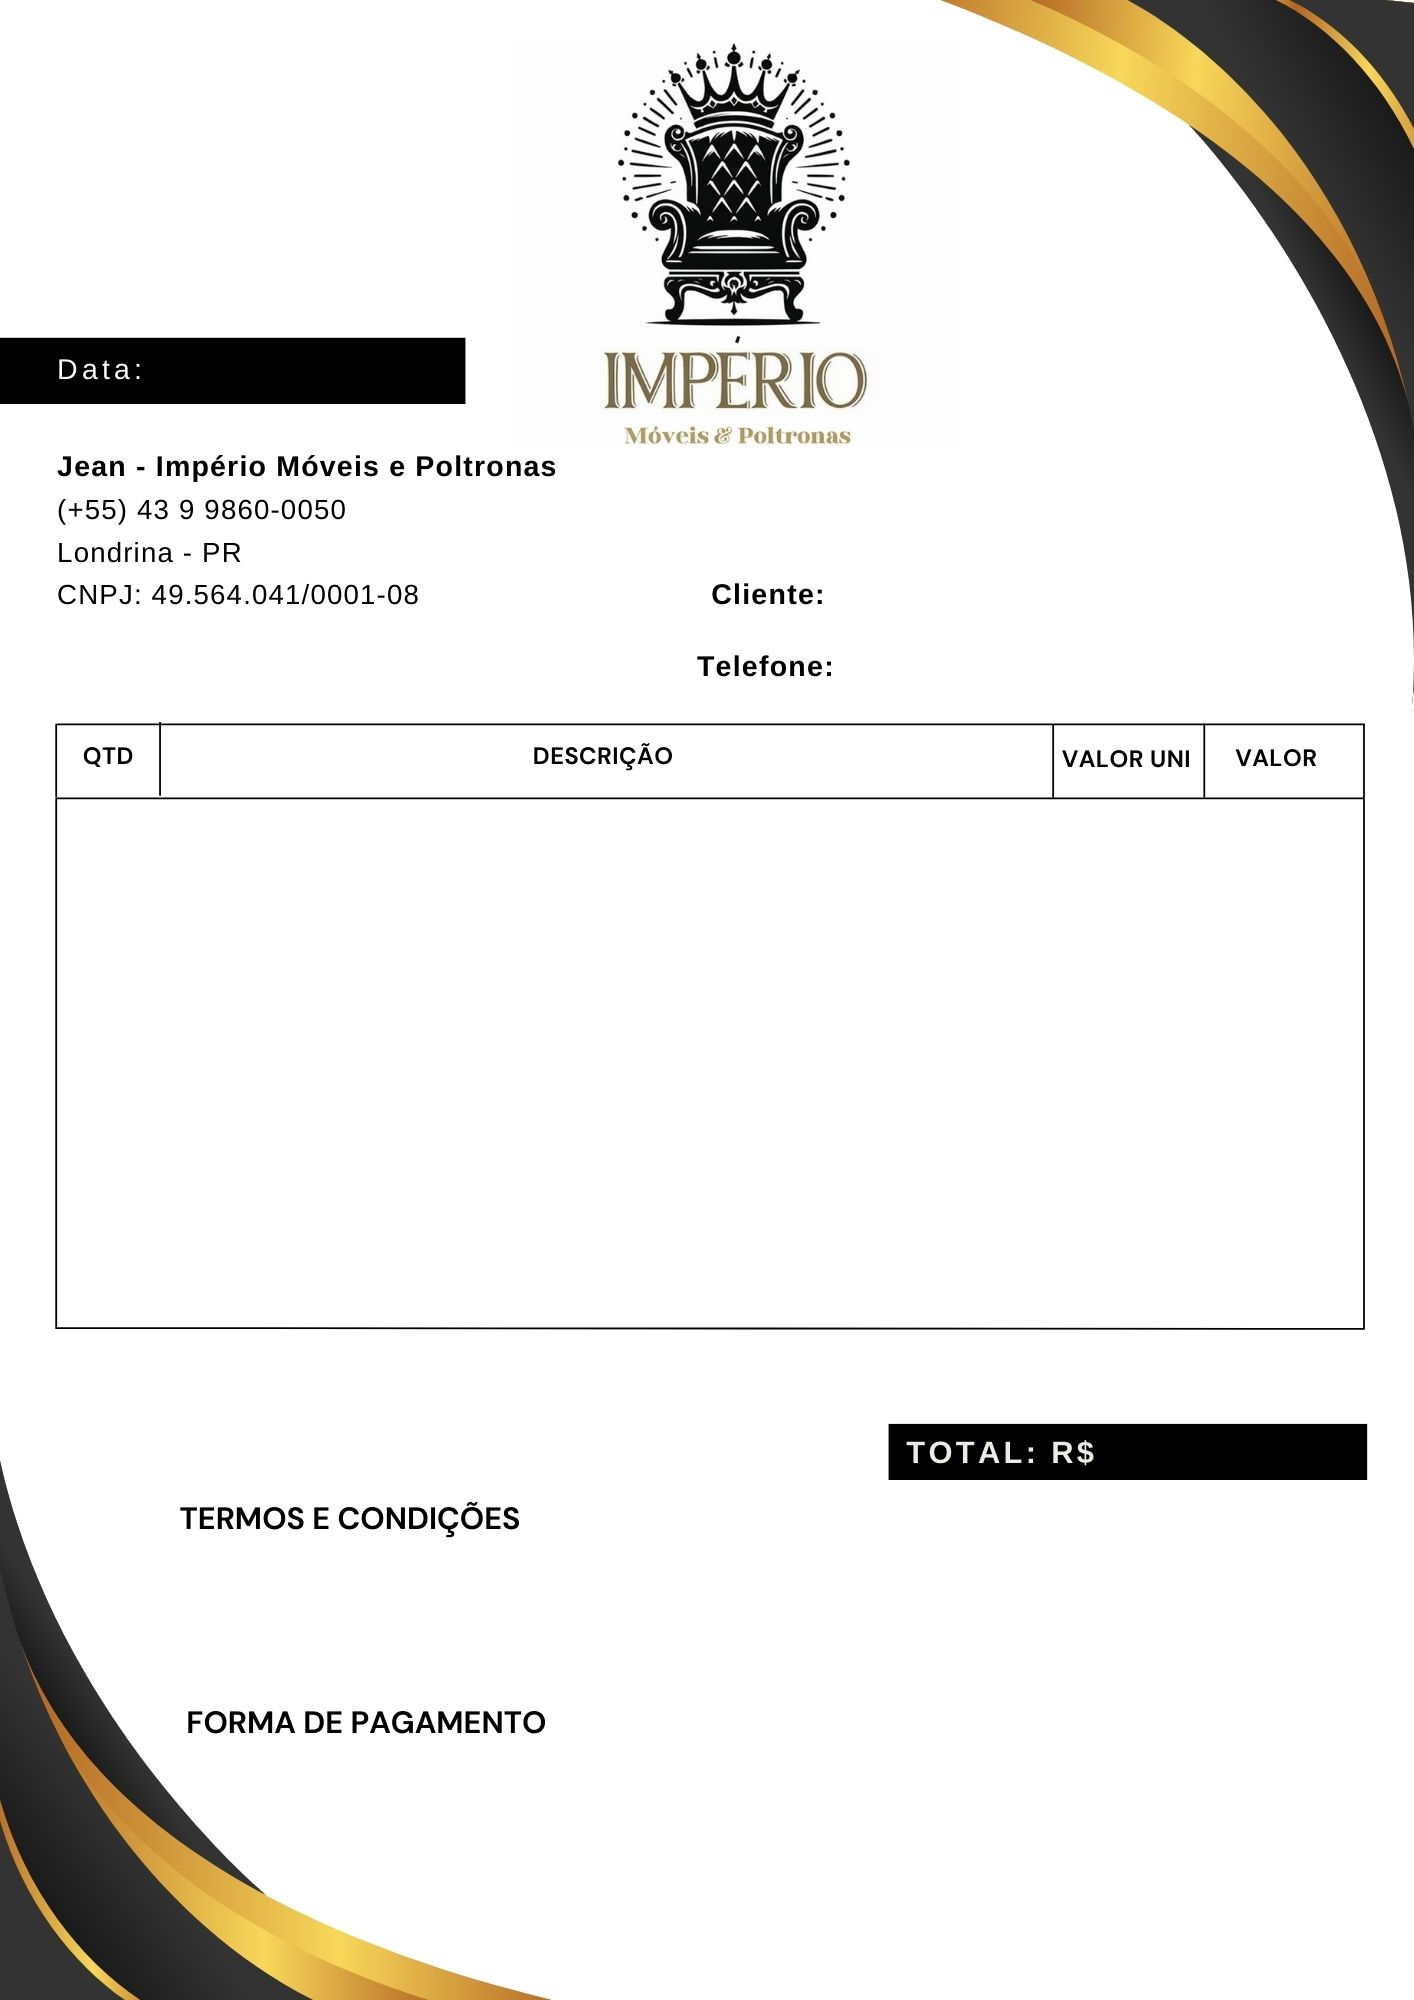
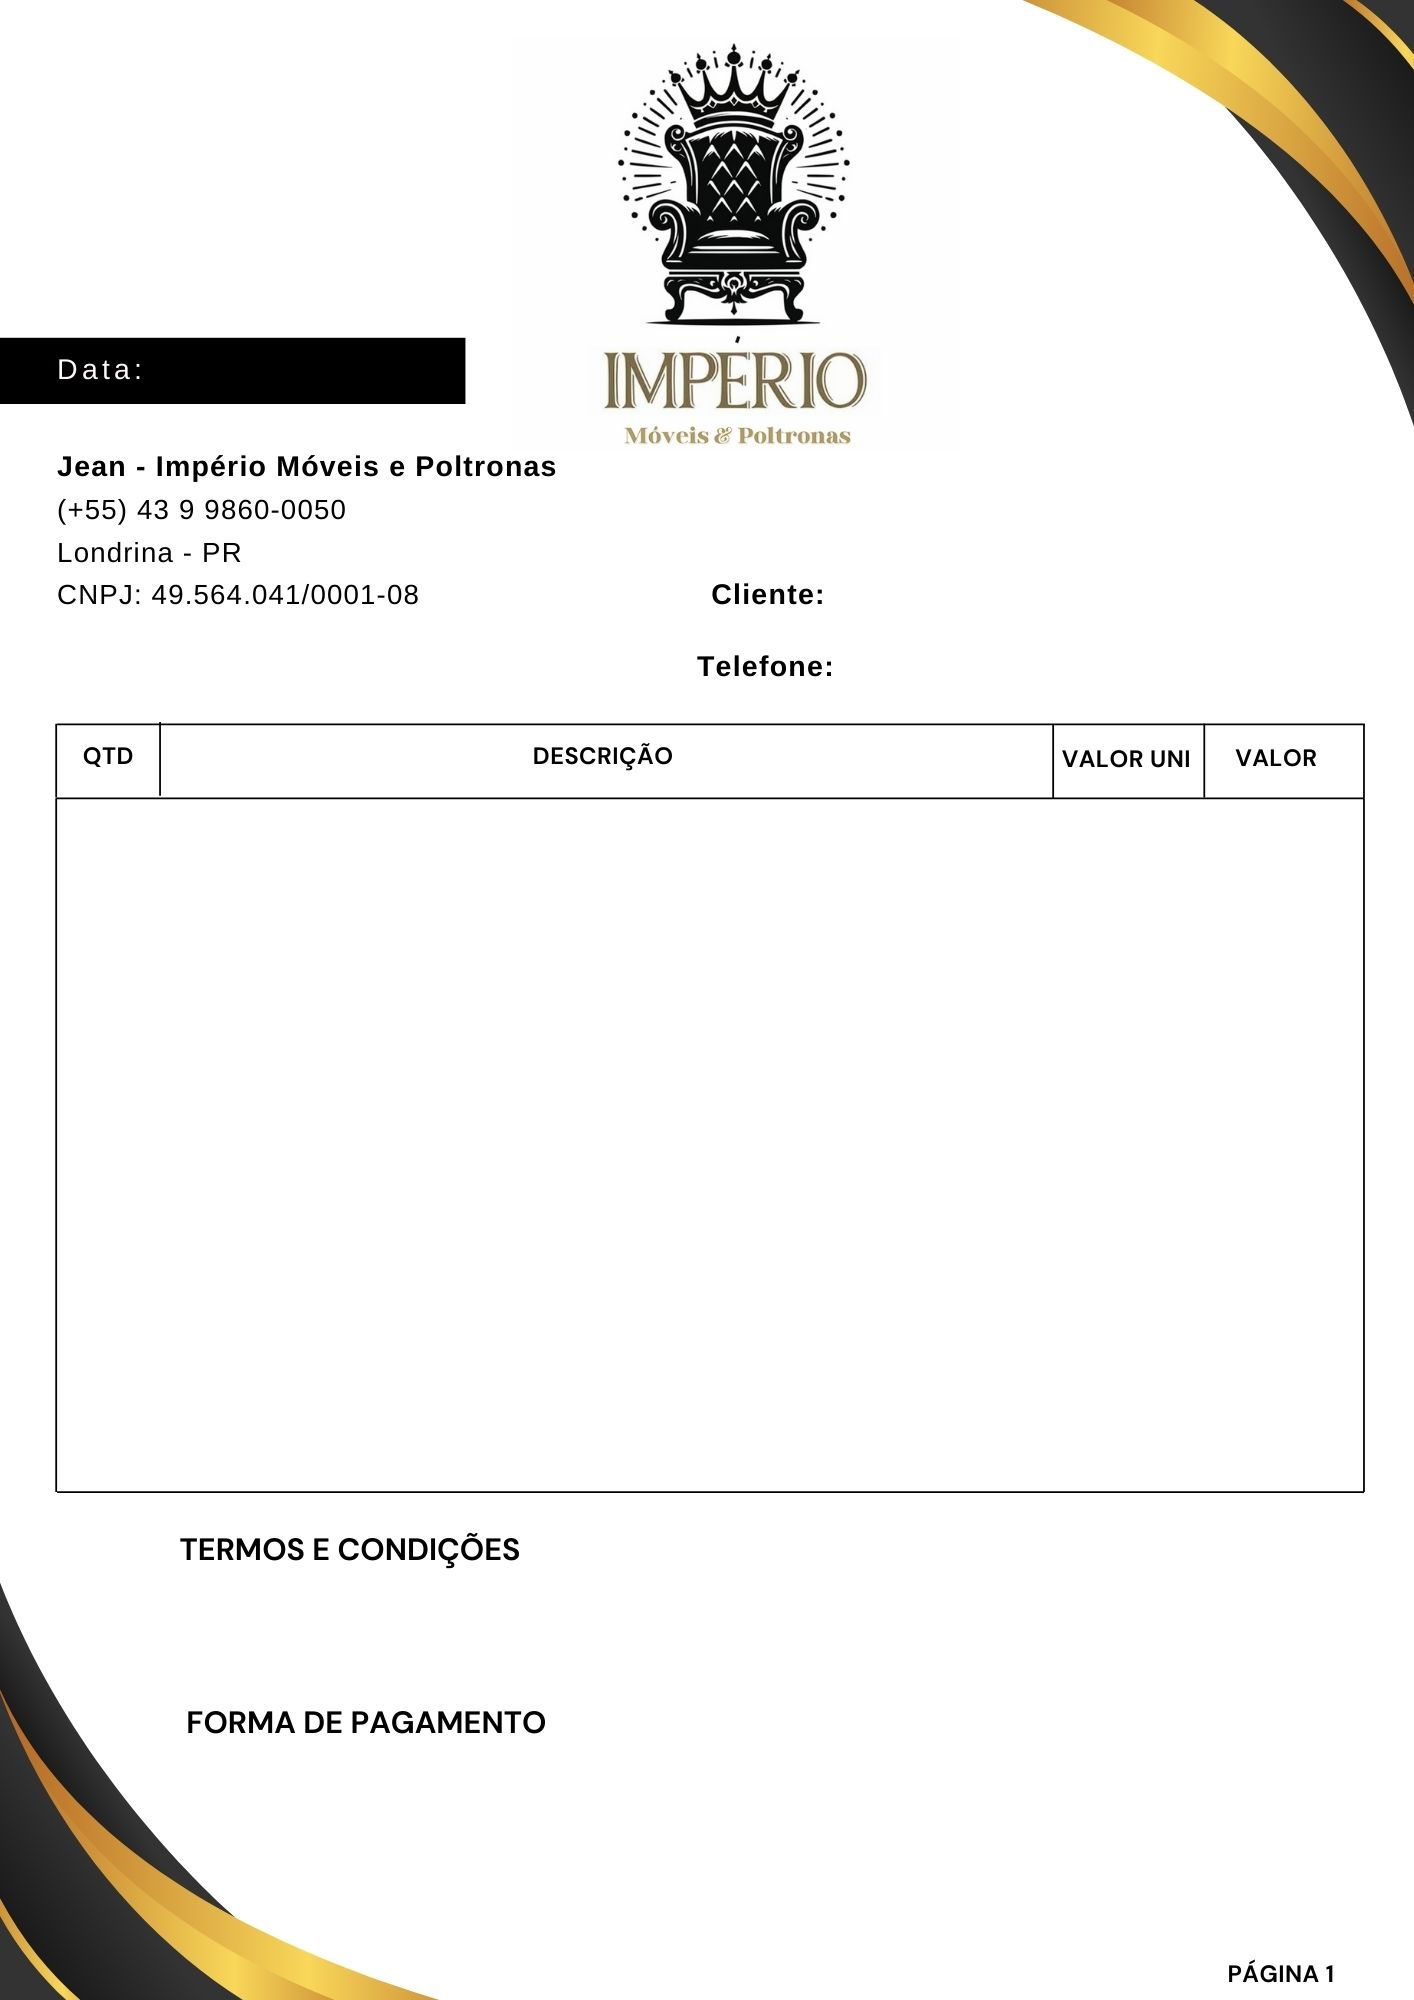
.

diff --git a/src/js/script.js b/src/js/script.js
@@ -9,7 +9,7 @@ document.getElementById("addItemBtnPredef").addEventListener("click", function (
     qtyInput.required = true;
     qtyInput.style.width = '25%';
     qtyInput.step = '0.01';
-    qtyInput.setAttribute('id', 'qty')
+    qtyInput.setAttribute('id', 'qty');
 
     // Substituindo o campo de descrição por um select com opções predefinidas
     const descSelect = document.createElement('select');
@@ -56,7 +56,7 @@ document.getElementById("addItemBtnPredef").addEventListener("click", function (
     priceDisplay.required = true;
     priceDisplay.style.width = '25%';
     priceDisplay.step = '0.01';
-    priceDisplay.setAttribute('id', 'price')
+    priceDisplay.setAttribute('id', 'price');
 
     const removeBtn = document.createElement('button');
     removeBtn.classList.add('removeBtn');
@@ -84,7 +84,7 @@ document.getElementById("addItemBtnManual").addEventListener("click", function (
     qtyInput.required = true;
     qtyInput.style.width = '25%';
     qtyInput.step = '0.01';
-    qtyInput.setAttribute('id', 'qty')
+    qtyInput.setAttribute('id', 'qty');
 
     // Campo de descrição manual
     const descInput = document.createElement('input');
@@ -100,7 +100,7 @@ document.getElementById("addItemBtnManual").addEventListener("click", function (
     priceInput.required = true;
     priceInput.style.width = '25%';
     priceInput.step = '0.01';
-    priceInput.setAttribute('id', 'price')
+    priceInput.setAttribute('id', 'price');
 
     const removeBtn = document.createElement('button');
     removeBtn.classList.add('removeBtn');
@@ -152,6 +152,10 @@ document.getElementById("orcamentoForm").addEventListener("submit", function (ev
     const img = new Image();
     img.src = "/src/img/template.jpg";
 
+    // Template de continuação
+    const imgContinuation = new Image();
+    imgContinuation.src = "/src/img/continue.jpg";
+
     // Desenhando em cima do template
     img.onload = function () {
         doc.addImage(img, 'JPG', 0, 0, doc.internal.pageSize.width, doc.internal.pageSize.height);
@@ -162,21 +166,21 @@ document.getElementById("orcamentoForm").addEventListener("submit", function (ev
         // Adicionando os dados do cliente
         doc.text(125, 90, nome);
         doc.text(125, 100, telefone);
-        
+
         // Adicionando os termos e condições
         const larguraMaxima = 70;
         const linhasTexto = doc.splitTextToSize(tcond, larguraMaxima);
-        let yPos = 242;
+        let yPos = 240;
         linhasTexto.forEach(linha => {
-            doc.text(135, yPos, linha);
+            doc.text(30, yPos, linha);
             yPos += 7;
         });
 
         // Adicionando a forma de pagamento
         const linhasTexto2 = doc.splitTextToSize(fpag, larguraMaxima);
-        let yPos2 = 272;
+        let yPos2 = 268;
         linhasTexto2.forEach(linha => {
-            doc.text(135, yPos2, linha);
+            doc.text(30, yPos2, linha);
             yPos2 += 7;
         });
 
@@ -185,19 +189,48 @@ document.getElementById("orcamentoForm").addEventListener("submit", function (ev
         doc.text(25, 56, datebr);
 
         let ypos = 125;
-        // Posição Y inicial para os itens
-        items.forEach(item => {
+        let linhasPorPagina = 10; // Número máximo de linhas por página
+        let linhaAtual = 0;
+
+        // Adicionando os itens
+        items.forEach((item, index) => {
+            if (linhaAtual === linhasPorPagina) {
+                // Criar uma nova página com o template de continuação
+                doc.addPage();
+                doc.addImage(
+                imgContinuation,
+                "JPG",
+                0,
+                0,
+                doc.internal.pageSize.width,
+                doc.internal.pageSize.height
+                );
+                
+                ypos = 60; // Reinicia a posição Y na nova página
+                linhaAtual = 0; // Reinicia a contagem de linhas
+            }
+
             doc.setTextColor(0, 0, 0);
             doc.text(13, ypos, item.qty.toString());
             doc.text(35, ypos, item.desc);
             doc.text(160, ypos, item.price.toFixed(2));
             doc.text(180, ypos, item.total.toFixed(2));
             ypos += 10;
+            linhaAtual++;
         });
 
-        // Adicionando o valor total de todos os itens do orçamento
-        doc.setTextColor(255, 255, 255);
-        doc.text(165, 217, valorTotalItens.toFixed(2));
+
+        //Pegando numero de paginas
+        const paginas = doc.getNumberOfPages();
+        if (paginas > 1) {
+          doc.setTextColor(0, 0, 0);
+          doc.setFontSize(20);
+          doc.text(140, 285, "TOTAL: R$" + valorTotalItens.toString());
+        } else {
+          doc.setTextColor(0, 0, 0);
+          doc.setFontSize(20);
+          doc.text(140, 230, "TOTAL: R$" + valorTotalItens.toString());
+        }
 
         // Salvando o PDF
         doc.save(`Orçamento_${nome}.pdf`);

diff --git a/index.html b/index.html
@@ -27,19 +27,19 @@
         <!--FORM-->
         <form id="orcamentoForm">
             <label for="nome">Nome do cliente:</label>
-            <input type="text" id="nome" name="nome" required>
+            <input type="text" id="nome" name="nome">
 
             <label for="telefone">Telefone do cliente:</label>
-            <input type="text" id="telefone" name="telefone" required>
+            <input type="text" id="telefone" name="telefone">
 
             <label for="data">Data do orçamento:</label>
-            <input type="date" id="data" name="data" required>
+            <input type="date" id="data" name="data">
 
             <label for="tcond">Termos e Condições:</label>
-            <input type="text" id="tcond" name="tcond" required>
+            <input type="text" id="tcond" name="tcond">
 
             <label for="fpag">Forma de pagamento:</label>
-            <input type="text" id="fpag" name="fpag" required>
+            <input type="text" id="fpag" name="fpag">
 
             <!-- Botões para adicionar item -->
             <button class="btnAdd" type="button" id="addItemBtnPredef">Adicionar Item (Pré-definido)</button>
